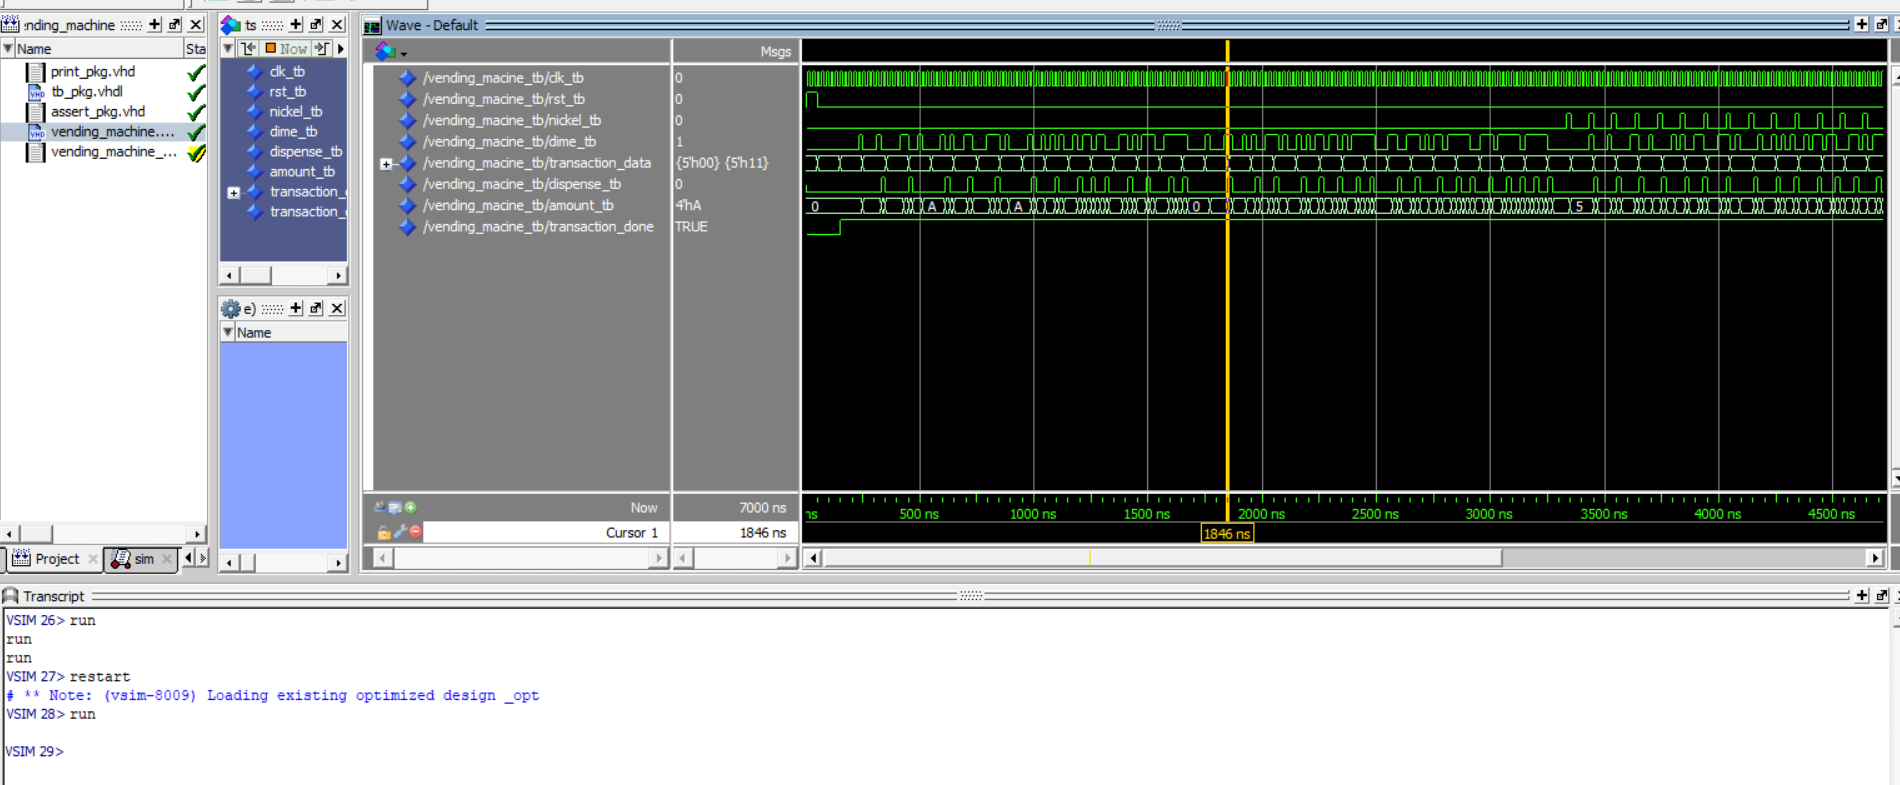
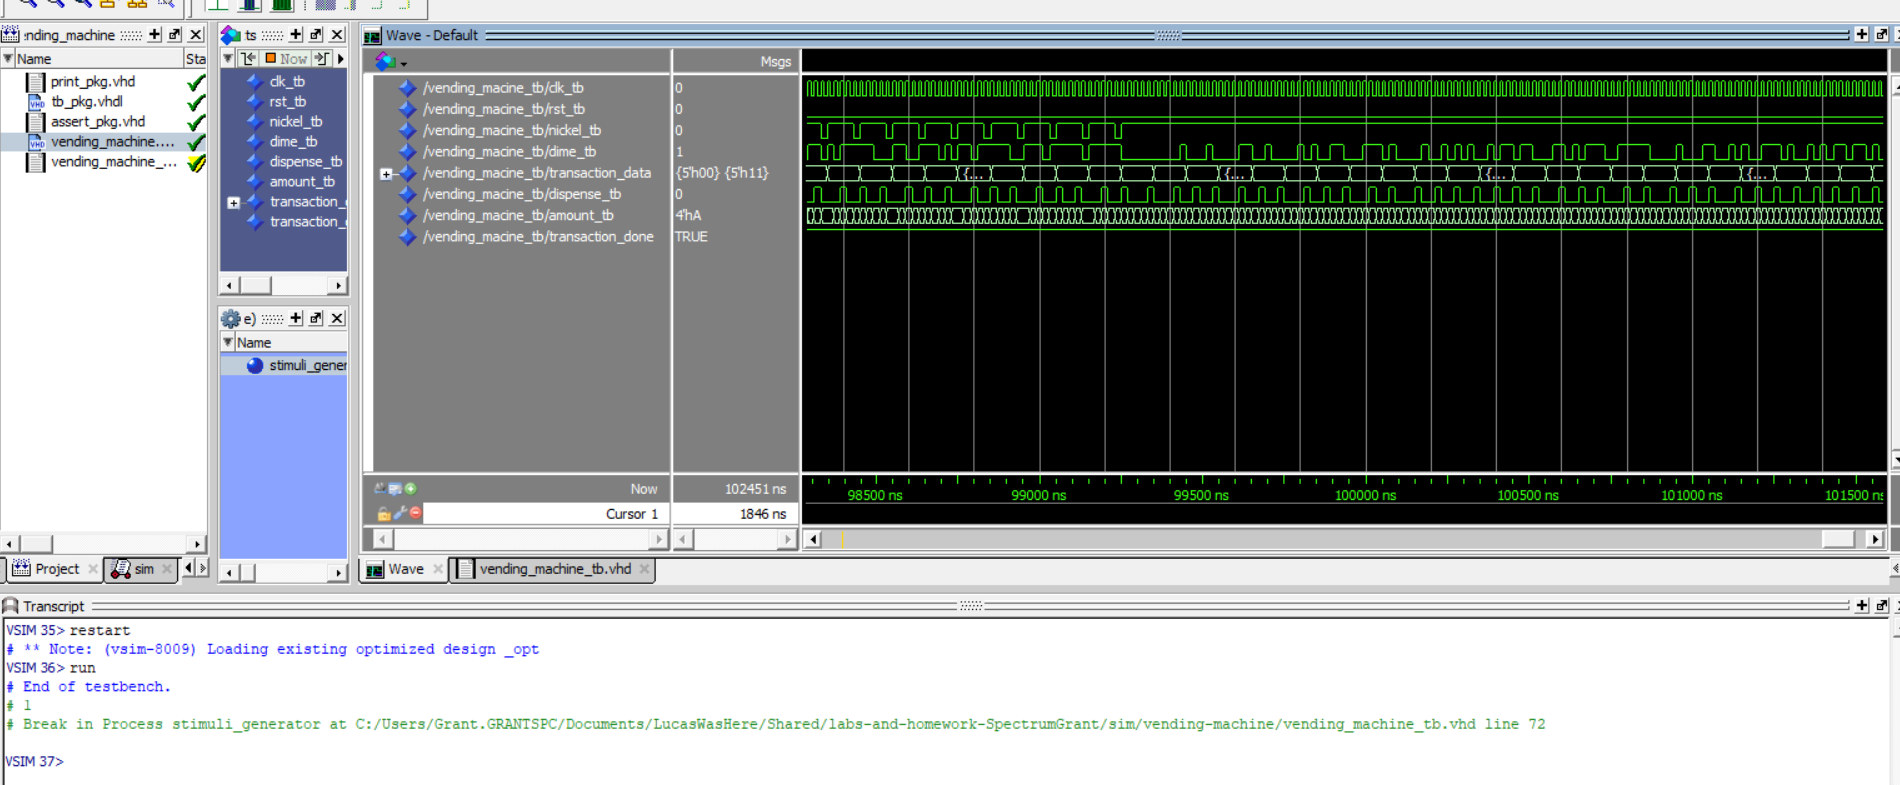
Added homework 05 markdown file with description and image. Updated image file to show simulation running until end of testbench

Changed region(s): [[0.0, 0.0, 1.0, 0.9783]]

diff --git a/docs/homework-05.md b/docs/homework-05.md
@@ -1,0 +1,9 @@
+# Homework 5: Vending Machine VHDL
+
+## Overview
+
+This assignment had a state machine being made, with a clock and reset input, and two coin type inputs. Based on which coin was inserted the system tracked how much money was inserted until 15 or more cents were added at which point it would output a dispense signal.
+
+## Deliverables
+
+![A screenshot of a awesome working program](assets/Kirkland_Homework05.png)
